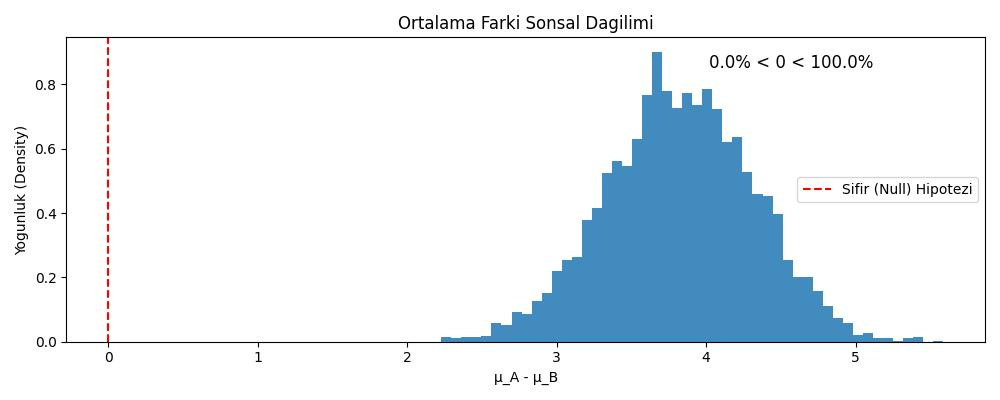
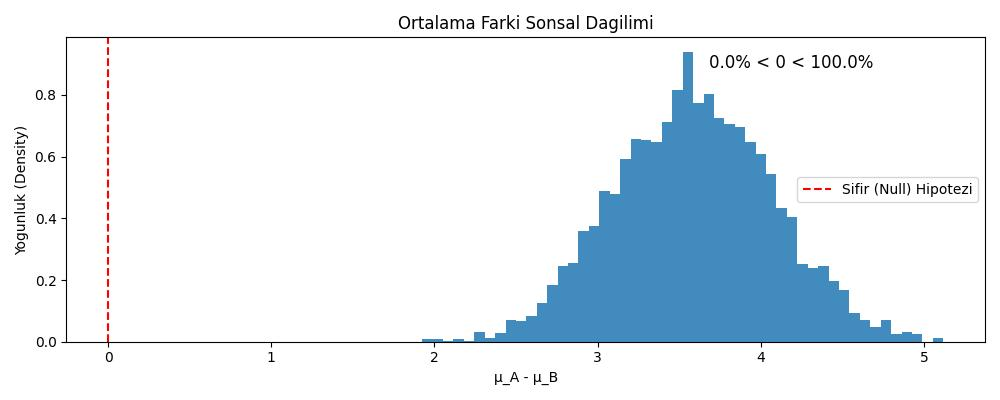
-

diff --git a/stat/stat_047_bayes/bayes_usulu_istatistiki_analiz.html b/stat/stat_047_bayes/bayes_usulu_istatistiki_analiz.html
@@ -258,16 +258,16 @@ hesaplar farklı sonuçlar verecektir çünkü farklı yoğunluk fonksiyonları
 ve parametreleri kullanıyor olurlar.</p>
 <h3 id="pymc">PyMC</h3>
 <p>Programcıları üstte tarif edilen hesapsal yükten kurtarmaya uğraşan
-ve yapılan hesapların daha rahat programlanmasını sağlayan paketler var.
-Bu paketler önsel / sonsal rasgele değişkenlerin tanımlanmasını
-neredeyse tanımsal (declarative) konuma getirerek alt seviye kodlama
-detaylarını perde arkasına itebiliyorlar, ve bu şekilde Bayeşçi
-hesapların çabuk gerçekleştirilmesini sağlıyorlar. Bu paketler sayesinde
-istenildiği kadar rasgele değişken bağlantısı yaratlım, çözücü kodlar
-sonsal dağılımdan örneklem alabiliyor. Bu tür paketler getirdikleri
-rahatlık sayesinde neredeyse bir dil yaratmış oldular, ve böylece
-terminolojiye yeni bir terim katıldı: olasılıksal programlama
-(proabilistic programming).</p>
+ve hesapların daha rahat programlanmasını sağlayan paketler var. Bu
+paketler önsel / sonsal rasgele değişkenlerin tanımlanmasını neredeyse
+tanımsal (declarative) hale getirerek alt seviye kodlama detaylarını
+perde arkasına itebiliyorlar, ve bu şekilde Bayeşçi hesapların çabuk
+gerçekleştirilmesini sağlıyorlar. Bu paketler sayesinde istenildiği
+kadar rasgele değişken bağlantısı yaratalım, çözücü kodlar sonsal
+dağılımdan örneklem alabiliyor. Bu tür paketler getirdikleri rahatlık
+sayesinde neredeyse bir dil yaratmış oluyorlar, ve bazıları
+terminolojiye yeni bir terim ekliyor: olasılıksal programlama
+(probabilistic programming).</p>
 <p>Bir örnek üzerinde görelim [7, sf. 8]. Standart istatistik
 örneklerinden bilindiği gibi arda atılan madeni paranın yazı mı tura mı
 geleceği Binom dağılımı ile temsil edilebilir. Eğer madeni paranın
@@ -280,25 +280,56 @@ P(X = k) = {N \choose k} p^k (1-p)^{N-k}
 <p>Burada <span class="math inline">\(N\)</span> tane deney içinde <span
 class="math inline">\(k\)</span> tane başarı elde etmeninin olasılık
 yoğunluk fonksiyonunu görüyoruz. Eğer yanlılık yok ise <span
-class="math inline">\(p=0.5\)</span>.</p>
+class="math inline">\(p=0.5\)</span>, var ise mesela <span
+class="math inline">\(p = 0.7\)</span>. Eğer yoğunluğu verilen ve
+bilinen <span class="math inline">\(p\)</span> yoğunluğundan rasgele
+örneklem toplamak istesek bunu yapabilirdik, yaygın kullanılan
+kütüphanelerde bile böyle kodlar mevcuttur.</p>
+<p>Eğer <span class="math inline">\(p\)</span> bilinmiyor olsaydı ve
+elde deney verisi olsaydı, bilinmeyen <span
+class="math inline">\(p\)</span>’yi bu veriden kestirmenin de yöntemleri
+mevcuttur.</p>
+<p>Modeli daha çetrefilleştirebilirdik. <span
+class="math inline">\(p\)</span>’nin bilinip bilinmedigi bir yana, onu
+tek bir sayı ile değil, <em>bir rasgele değişken</em>, mesela <span
+class="math inline">\(\theta\)</span> üzerinden tanımlıyor olabilirdik.
+Bu durumda,</p>
+<p><span class="math display">\[
+\theta \sim Beta(\alpha, \beta)
+\]</span></p>
+<p><span class="math display">\[
+Y \sim Bin(n = 1, p = \theta)
+\]</span></p>
+<p>Şimdi rasgele örneklem üretmek iki aşamalı oldu, önce bir Beta
+dağılımından örneklem alınacak, sonra bu alınan değer Bin dağılımından
+örneklem için kullanılacak.</p>
+<p>PyMC kodları burada devreye giriyor, Bayes yaklaşımı ile iki katmanlı
+bir yapı oluşturduk, bir rasgele değişken diğerine bağlı, ve biz mevcut
+veriyi de hesaba katan bir sonral dağılım <span
+class="math inline">\(\theta\)</span>’dan örneklem alabiliriz.</p>
 <div class="sourceCode" id="cb1"><pre
 class="sourceCode python"><code class="sourceCode python"><span id="cb1-1"><a href="#cb1-1" aria-hidden="true" tabindex="-1"></a><span class="im">import</span> pymc <span class="im">as</span> pm, scipy.stats <span class="im">as</span> stats</span>
 <span id="cb1-2"><a href="#cb1-2" aria-hidden="true" tabindex="-1"></a><span class="im">import</span> pandas <span class="im">as</span> pd</span></code></pre></div>
 <div class="sourceCode" id="cb2"><pre
 class="sourceCode python"><code class="sourceCode python"><span id="cb2-1"><a href="#cb2-1" aria-hidden="true" tabindex="-1"></a>Y <span class="op">=</span> stats.bernoulli(<span class="fl">0.7</span>).rvs(<span class="dv">20</span>)</span>
 <span id="cb2-2"><a href="#cb2-2" aria-hidden="true" tabindex="-1"></a></span>
-<span id="cb2-3"><a href="#cb2-3" aria-hidden="true" tabindex="-1"></a>theta <span class="op">=</span> <span class="fl">0.5</span></span>
-<span id="cb2-4"><a href="#cb2-4" aria-hidden="true" tabindex="-1"></a><span class="cf">with</span> pm.Model() <span class="im">as</span> model:</span>
-<span id="cb2-5"><a href="#cb2-5" aria-hidden="true" tabindex="-1"></a>     theta <span class="op">=</span> pm.Beta(<span class="st">&quot;theta&quot;</span>, alpha<span class="op">=</span><span class="dv">1</span>, beta<span class="op">=</span><span class="dv">1</span>)</span>
-<span id="cb2-6"><a href="#cb2-6" aria-hidden="true" tabindex="-1"></a>     y_obs <span class="op">=</span> pm.Binomial(<span class="st">&quot;eta_obs&quot;</span>, n<span class="op">=</span><span class="dv">1</span>, p<span class="op">=</span>theta, observed<span class="op">=</span>Y)</span>
-<span id="cb2-7"><a href="#cb2-7" aria-hidden="true" tabindex="-1"></a>     idata <span class="op">=</span> pm.sample(<span class="dv">1000</span>, return_inferencedata<span class="op">=</span><span class="va">True</span>)</span></code></pre></div>
+<span id="cb2-3"><a href="#cb2-3" aria-hidden="true" tabindex="-1"></a><span class="cf">with</span> pm.Model() <span class="im">as</span> model:</span>
+<span id="cb2-4"><a href="#cb2-4" aria-hidden="true" tabindex="-1"></a>     theta <span class="op">=</span> pm.Beta(<span class="st">&quot;theta&quot;</span>, alpha<span class="op">=</span><span class="dv">1</span>, beta<span class="op">=</span><span class="dv">1</span>)</span>
+<span id="cb2-5"><a href="#cb2-5" aria-hidden="true" tabindex="-1"></a>     y_obs <span class="op">=</span> pm.Binomial(<span class="st">&quot;eta_obs&quot;</span>, n<span class="op">=</span><span class="dv">1</span>, p<span class="op">=</span>theta, observed<span class="op">=</span>Y)</span>
+<span id="cb2-6"><a href="#cb2-6" aria-hidden="true" tabindex="-1"></a>     idata <span class="op">=</span> pm.sample(<span class="dv">1000</span>, return_inferencedata<span class="op">=</span><span class="va">True</span>)</span></code></pre></div>
 <div class="sourceCode" id="cb3"><pre
 class="sourceCode python"><code class="sourceCode python"><span id="cb3-1"><a href="#cb3-1" aria-hidden="true" tabindex="-1"></a>theta_post <span class="op">=</span> np.array(idata.posterior[<span class="st">&#39;theta&#39;</span>])</span>
 <span id="cb3-2"><a href="#cb3-2" aria-hidden="true" tabindex="-1"></a><span class="bu">print</span> (np.mean(theta_post))</span>
 <span id="cb3-3"><a href="#cb3-3" aria-hidden="true" tabindex="-1"></a>plt.hist(theta_post[<span class="dv">0</span>],bins<span class="op">=</span><span class="dv">10</span>)</span>
 <span id="cb3-4"><a href="#cb3-4" aria-hidden="true" tabindex="-1"></a>plt.savefig(<span class="st">&#39;tser_023_bsts_03.jpg&#39;</span>)</span></code></pre></div>
-<pre class="text"><code>0.5952869333604922</code></pre>
-<p><img src="tser_023_bsts_03.jpg" /></p>
+<pre class="text"><code>0.7246428574887125</code></pre>
+<p><img width='300' src='tser_023_bsts_03.jpg'/></p>
+<p>Görüldüğü gibi 0.7 yanlı veriyi modele verince kodlar bunun sonsal
+<span class="math inline">\(\theta\)</span> dağılımına yansımasını
+saptadı, ortalama 0.72 çıktı. Ayrıca tek bir sayı değil, bütün bir
+dağılımı sonuç olarak aldığımız için çok daha çetrefil analizleri bu
+sonuç üzerinde işletebiliriz.</p>
+<p>Katmanlar alttaki gibi,</p>
 <div class="sourceCode" id="cb5"><pre
 class="sourceCode python"><code class="sourceCode python"><span id="cb5-1"><a href="#cb5-1" aria-hidden="true" tabindex="-1"></a>graphviz <span class="op">=</span> pm.model_to_graphviz(model)</span>
 <span id="cb5-2"><a href="#cb5-2" aria-hidden="true" tabindex="-1"></a>graphviz.graph_attr.update(dpi<span class="op">=</span><span class="st">&quot;300&quot;</span>)</span>

diff --git a/stat/stat_047_bayes/stat_047_bayes.html b/stat/stat_047_bayes/stat_047_bayes.html
@@ -258,16 +258,16 @@ hesaplar farklı sonuçlar verecektir çünkü farklı yoğunluk fonksiyonları
 ve parametreleri kullanıyor olurlar.</p>
 <h3 id="pymc">PyMC</h3>
 <p>Programcıları üstte tarif edilen hesapsal yükten kurtarmaya uğraşan
-ve yapılan hesapların daha rahat programlanmasını sağlayan paketler var.
-Bu paketler önsel / sonsal rasgele değişkenlerin tanımlanmasını
-neredeyse tanımsal (declarative) konuma getirerek alt seviye kodlama
-detaylarını perde arkasına itebiliyorlar, ve bu şekilde Bayeşçi
-hesapların çabuk gerçekleştirilmesini sağlıyorlar. Bu paketler sayesinde
-istenildiği kadar rasgele değişken bağlantısı yaratlım, çözücü kodlar
-sonsal dağılımdan örneklem alabiliyor. Bu tür paketler getirdikleri
-rahatlık sayesinde neredeyse bir dil yaratmış oldular, ve böylece
-terminolojiye yeni bir terim katıldı: olasılıksal programlama
-(proabilistic programming).</p>
+ve hesapların daha rahat programlanmasını sağlayan paketler var. Bu
+paketler önsel / sonsal rasgele değişkenlerin tanımlanmasını neredeyse
+tanımsal (declarative) hale getirerek alt seviye kodlama detaylarını
+perde arkasına itebiliyorlar, ve bu şekilde Bayeşçi hesapların çabuk
+gerçekleştirilmesini sağlıyorlar. Bu paketler sayesinde istenildiği
+kadar rasgele değişken bağlantısı yaratalım, çözücü kodlar sonsal
+dağılımdan örneklem alabiliyor. Bu tür paketler getirdikleri rahatlık
+sayesinde neredeyse bir dil yaratmış oluyorlar, ve bazıları
+terminolojiye yeni bir terim ekliyor: olasılıksal programlama
+(probabilistic programming).</p>
 <p>Bir örnek üzerinde görelim [7, sf. 8]. Standart istatistik
 örneklerinden bilindiği gibi arda atılan madeni paranın yazı mı tura mı
 geleceği Binom dağılımı ile temsil edilebilir. Eğer madeni paranın
@@ -280,25 +280,56 @@ P(X = k) = {N \choose k} p^k (1-p)^{N-k}
 <p>Burada <span class="math inline">\(N\)</span> tane deney içinde <span
 class="math inline">\(k\)</span> tane başarı elde etmeninin olasılık
 yoğunluk fonksiyonunu görüyoruz. Eğer yanlılık yok ise <span
-class="math inline">\(p=0.5\)</span>.</p>
+class="math inline">\(p=0.5\)</span>, var ise mesela <span
+class="math inline">\(p = 0.7\)</span>. Eğer yoğunluğu verilen ve
+bilinen <span class="math inline">\(p\)</span> yoğunluğundan rasgele
+örneklem toplamak istesek bunu yapabilirdik, yaygın kullanılan
+kütüphanelerde bile böyle kodlar mevcuttur.</p>
+<p>Eğer <span class="math inline">\(p\)</span> bilinmiyor olsaydı ve
+elde deney verisi olsaydı, bilinmeyen <span
+class="math inline">\(p\)</span>’yi bu veriden kestirmenin de yöntemleri
+mevcuttur.</p>
+<p>Modeli daha çetrefilleştirebilirdik. <span
+class="math inline">\(p\)</span>’nin bilinip bilinmedigi bir yana, onu
+tek bir sayı ile değil, <em>bir rasgele değişken</em>, mesela <span
+class="math inline">\(\theta\)</span> üzerinden tanımlıyor olabilirdik.
+Bu durumda,</p>
+<p><span class="math display">\[
+\theta \sim Beta(\alpha, \beta)
+\]</span></p>
+<p><span class="math display">\[
+Y \sim Bin(n = 1, p = \theta)
+\]</span></p>
+<p>Şimdi rasgele örneklem üretmek iki aşamalı oldu, önce bir Beta
+dağılımından örneklem alınacak, sonra bu alınan değer Bin dağılımından
+örneklem için kullanılacak.</p>
+<p>PyMC kodları burada devreye giriyor, Bayes yaklaşımı ile iki katmanlı
+bir yapı oluşturduk, bir rasgele değişken diğerine bağlı, ve biz mevcut
+veriyi de hesaba katan bir sonral dağılım <span
+class="math inline">\(\theta\)</span>’dan örneklem alabiliriz.</p>
 <div class="sourceCode" id="cb1"><pre
 class="sourceCode python"><code class="sourceCode python"><span id="cb1-1"><a href="#cb1-1" aria-hidden="true" tabindex="-1"></a><span class="im">import</span> pymc <span class="im">as</span> pm, scipy.stats <span class="im">as</span> stats</span>
 <span id="cb1-2"><a href="#cb1-2" aria-hidden="true" tabindex="-1"></a><span class="im">import</span> pandas <span class="im">as</span> pd</span></code></pre></div>
 <div class="sourceCode" id="cb2"><pre
 class="sourceCode python"><code class="sourceCode python"><span id="cb2-1"><a href="#cb2-1" aria-hidden="true" tabindex="-1"></a>Y <span class="op">=</span> stats.bernoulli(<span class="fl">0.7</span>).rvs(<span class="dv">20</span>)</span>
 <span id="cb2-2"><a href="#cb2-2" aria-hidden="true" tabindex="-1"></a></span>
-<span id="cb2-3"><a href="#cb2-3" aria-hidden="true" tabindex="-1"></a>theta <span class="op">=</span> <span class="fl">0.5</span></span>
-<span id="cb2-4"><a href="#cb2-4" aria-hidden="true" tabindex="-1"></a><span class="cf">with</span> pm.Model() <span class="im">as</span> model:</span>
-<span id="cb2-5"><a href="#cb2-5" aria-hidden="true" tabindex="-1"></a>     theta <span class="op">=</span> pm.Beta(<span class="st">&quot;theta&quot;</span>, alpha<span class="op">=</span><span class="dv">1</span>, beta<span class="op">=</span><span class="dv">1</span>)</span>
-<span id="cb2-6"><a href="#cb2-6" aria-hidden="true" tabindex="-1"></a>     y_obs <span class="op">=</span> pm.Binomial(<span class="st">&quot;eta_obs&quot;</span>, n<span class="op">=</span><span class="dv">1</span>, p<span class="op">=</span>theta, observed<span class="op">=</span>Y)</span>
-<span id="cb2-7"><a href="#cb2-7" aria-hidden="true" tabindex="-1"></a>     idata <span class="op">=</span> pm.sample(<span class="dv">1000</span>, return_inferencedata<span class="op">=</span><span class="va">True</span>)</span></code></pre></div>
+<span id="cb2-3"><a href="#cb2-3" aria-hidden="true" tabindex="-1"></a><span class="cf">with</span> pm.Model() <span class="im">as</span> model:</span>
+<span id="cb2-4"><a href="#cb2-4" aria-hidden="true" tabindex="-1"></a>     theta <span class="op">=</span> pm.Beta(<span class="st">&quot;theta&quot;</span>, alpha<span class="op">=</span><span class="dv">1</span>, beta<span class="op">=</span><span class="dv">1</span>)</span>
+<span id="cb2-5"><a href="#cb2-5" aria-hidden="true" tabindex="-1"></a>     y_obs <span class="op">=</span> pm.Binomial(<span class="st">&quot;eta_obs&quot;</span>, n<span class="op">=</span><span class="dv">1</span>, p<span class="op">=</span>theta, observed<span class="op">=</span>Y)</span>
+<span id="cb2-6"><a href="#cb2-6" aria-hidden="true" tabindex="-1"></a>     idata <span class="op">=</span> pm.sample(<span class="dv">1000</span>, return_inferencedata<span class="op">=</span><span class="va">True</span>)</span></code></pre></div>
 <div class="sourceCode" id="cb3"><pre
 class="sourceCode python"><code class="sourceCode python"><span id="cb3-1"><a href="#cb3-1" aria-hidden="true" tabindex="-1"></a>theta_post <span class="op">=</span> np.array(idata.posterior[<span class="st">&#39;theta&#39;</span>])</span>
 <span id="cb3-2"><a href="#cb3-2" aria-hidden="true" tabindex="-1"></a><span class="bu">print</span> (np.mean(theta_post))</span>
 <span id="cb3-3"><a href="#cb3-3" aria-hidden="true" tabindex="-1"></a>plt.hist(theta_post[<span class="dv">0</span>],bins<span class="op">=</span><span class="dv">10</span>)</span>
 <span id="cb3-4"><a href="#cb3-4" aria-hidden="true" tabindex="-1"></a>plt.savefig(<span class="st">&#39;tser_023_bsts_03.jpg&#39;</span>)</span></code></pre></div>
-<pre class="text"><code>0.5952869333604922</code></pre>
-<p><img src="tser_023_bsts_03.jpg" /></p>
+<pre class="text"><code>0.7246428574887125</code></pre>
+<p><img width='300' src='tser_023_bsts_03.jpg'/></p>
+<p>Görüldüğü gibi 0.7 yanlı veriyi modele verince kodlar bunun sonsal
+<span class="math inline">\(\theta\)</span> dağılımına yansımasını
+saptadı, ortalama 0.72 çıktı. Ayrıca tek bir sayı değil, bütün bir
+dağılımı sonuç olarak aldığımız için çok daha çetrefil analizleri bu
+sonuç üzerinde işletebiliriz.</p>
+<p>Katmanlar alttaki gibi,</p>
 <div class="sourceCode" id="cb5"><pre
 class="sourceCode python"><code class="sourceCode python"><span id="cb5-1"><a href="#cb5-1" aria-hidden="true" tabindex="-1"></a>graphviz <span class="op">=</span> pm.model_to_graphviz(model)</span>
 <span id="cb5-2"><a href="#cb5-2" aria-hidden="true" tabindex="-1"></a>graphviz.graph_attr.update(dpi<span class="op">=</span><span class="st">&quot;300&quot;</span>)</span>
